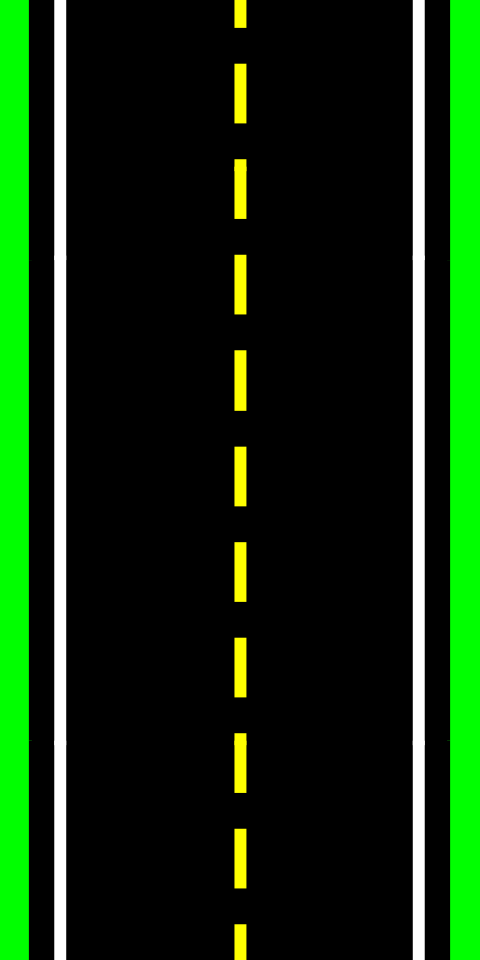
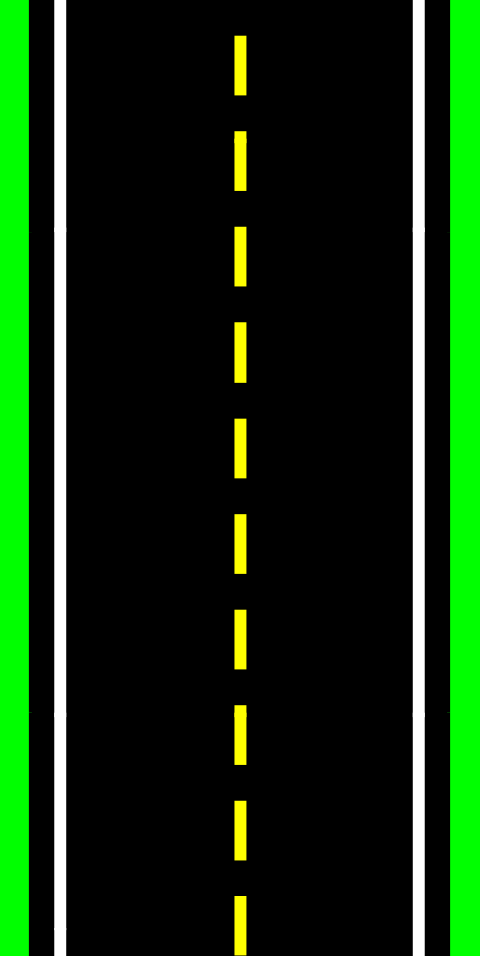
background problem solved

diff --git a/Source/TwinSkaters/Assets/Scripts/BackgroundController.cs b/Source/TwinSkaters/Assets/Scripts/BackgroundController.cs
@@ -4,9 +4,7 @@ using System.Collections;
 public class BackgroundController : MonoBehaviour
 {
     public float scrollSpeed;
-    public float tileSizeY;
 	private GameObject[] cones;
-
     private Vector3 startPosition;
 
     void Start ()
@@ -18,14 +16,13 @@ public class BackgroundController : MonoBehaviour
 
 	void Update ()
 	{
-		float newPosition = Mathf.Repeat(Time.time * scrollSpeed, tileSizeY);
-		if (transform.position.y < (startPosition + Vector3.up * newPosition).y) {
+		float newPosition = Mathf.Repeat(Time.time * scrollSpeed, GetComponent<Renderer>().bounds.size.y - 3f*Camera.main.orthographicSize);
+		if (transform.position.y < (startPosition - Vector3.up * newPosition).y) {
 			foreach(GameObject cone in cones){
-				cone.SetActive(true);
-				float ny = transform.position.y;
+				float ny = cone.transform.position.y;
 				cone.transform.position = new Vector3( (Random.value-0.5f)*7.0f, ny, 0.0f);
 			}
 		}
-		transform.position = startPosition + Vector3.up * newPosition;
+		transform.position = startPosition - Vector3.up * newPosition;
 	}
 }
